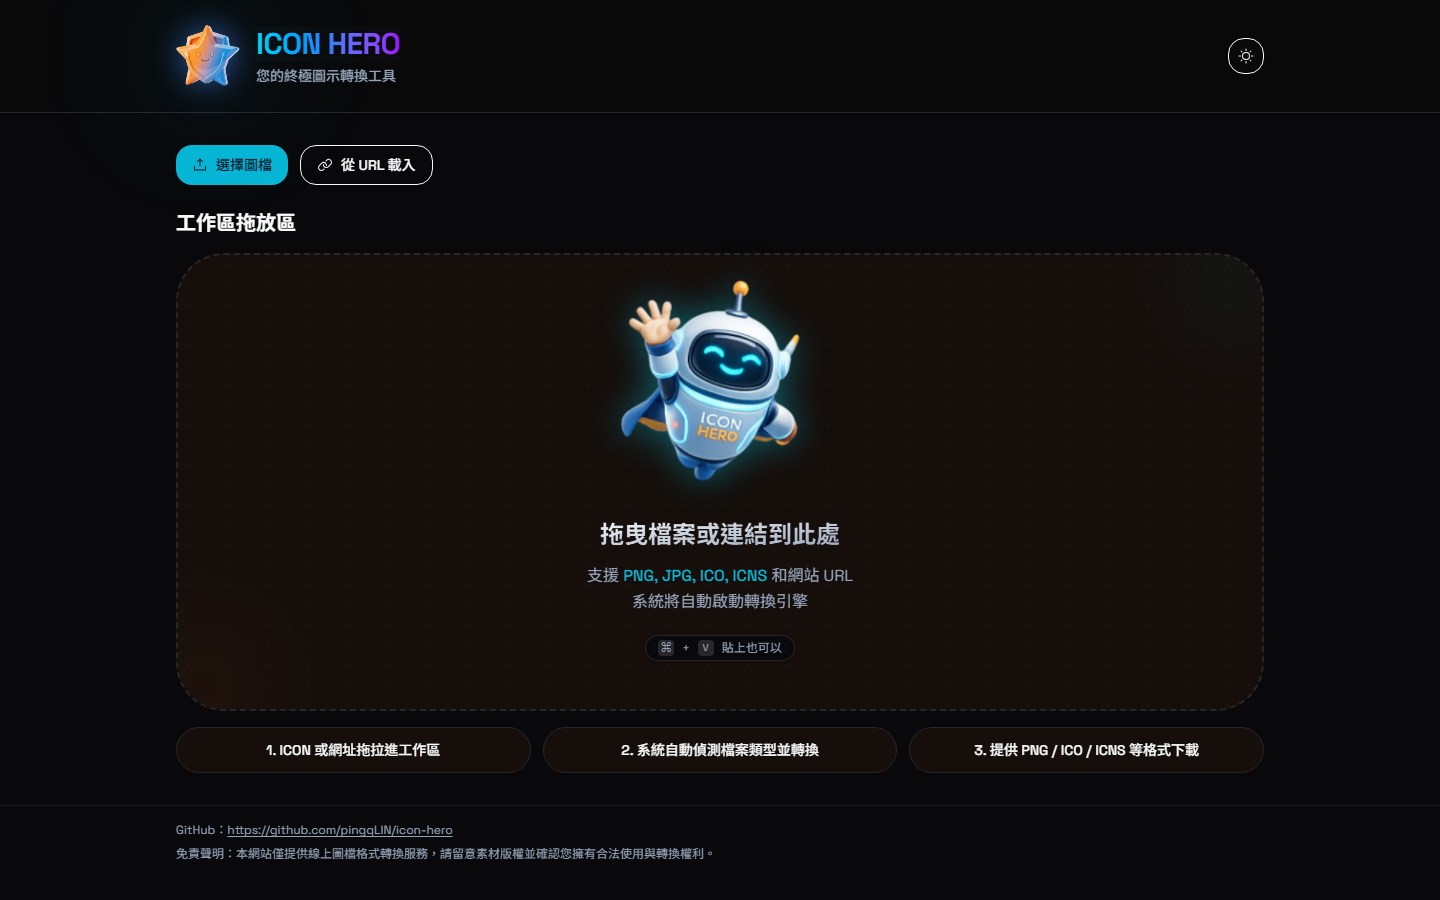
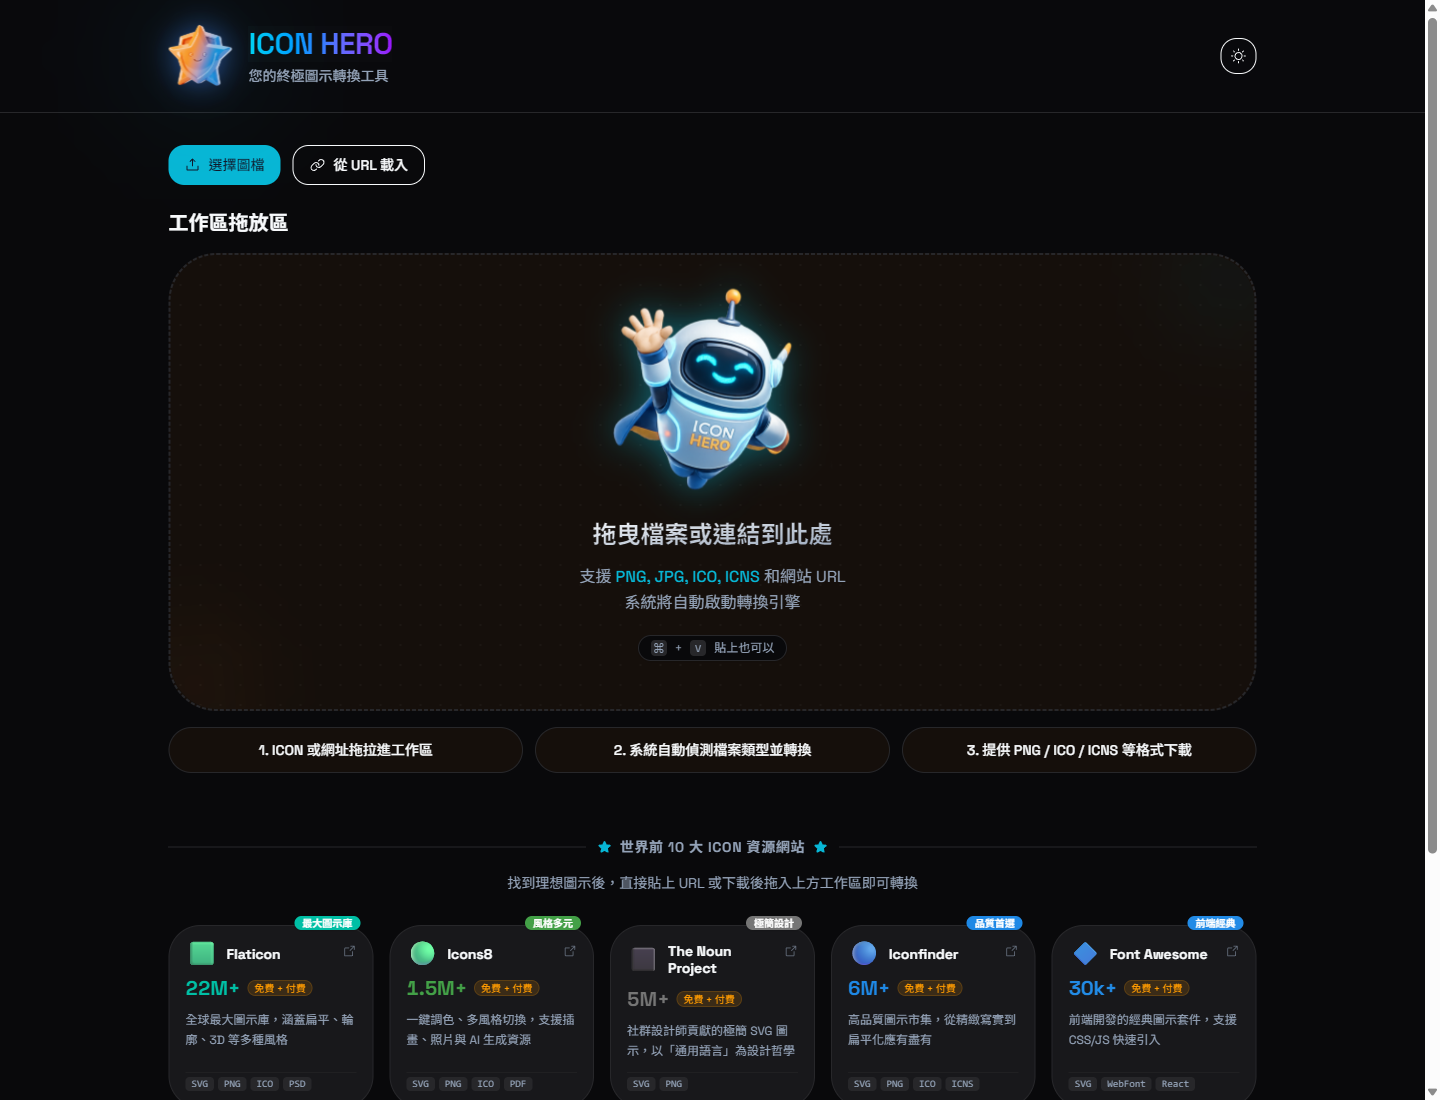
perf(build): split vendor chunks and refresh README visuals

diff --git a/vite.config.ts b/vite.config.ts
@@ -23,4 +23,41 @@ export default defineConfig({
       '@': resolve(projectRoot, 'src')
     }
   },
+  build: {
+    rollupOptions: {
+      output: {
+        manualChunks(id) {
+          if (!id.includes('node_modules')) {
+            return undefined
+          }
+
+          if (id.includes('react') || id.includes('scheduler')) {
+            return 'vendor-react'
+          }
+
+          if (id.includes('@radix-ui') || id.includes('cmdk') || id.includes('vaul') || id.includes('embla-carousel')) {
+            return 'vendor-ui'
+          }
+
+          if (id.includes('@phosphor-icons') || id.includes('lucide-react') || id.includes('@heroicons')) {
+            return 'vendor-icons'
+          }
+
+          if (id.includes('framer-motion')) {
+            return 'vendor-motion'
+          }
+
+          if (id.includes('jszip') || id.includes('marked')) {
+            return 'vendor-utils'
+          }
+
+          if (id.includes('@github/spark')) {
+            return 'vendor-spark'
+          }
+
+          return 'vendor-misc'
+        },
+      },
+    },
+  },
 });

diff --git a/README.md b/README.md
@@ -73,6 +73,29 @@
 
 ---
 
+## 🌍 Top 10 Icon Resources
+
+<p align="center">
+  <img src="docs/images/screenshot-icon-resources.png" width="900" alt="Top 10 icon resource cards in Icon Hero">
+</p>
+
+The workspace now includes a curated "Top 10 Icon Resources" section (right above the footer) for quick discovery and style comparison.
+
+| Website | Icon Count | License | Highlight |
+|---------|------------|---------|-----------|
+| Flaticon | 22M+ | Free + Paid | Largest icon library |
+| Icons8 | 1.5M+ | Free + Paid | Wide style coverage |
+| The Noun Project | 5M+ | Free + Paid | Minimal design system |
+| Iconfinder | 6M+ | Free + Paid | Premium-quality sets |
+| Font Awesome | 30k+ | Free + Paid | Frontend classic |
+| Phosphor Icons | 9k+ | Free | Used by this project |
+| Heroicons | 300+ | Free | Official Tailwind icons |
+| Lucide | 1.5k+ | Free | Active open-source community |
+| Feather Icons | 287 | Free | Minimal open-source set |
+| Material Icons | 2500+ | Free | Official Google set |
+
+---
+
 ## 🗺 How to Use
 
 <p align="center">

diff --git a/README.zh-TW.md b/README.zh-TW.md
@@ -73,6 +73,29 @@
 
 ---
 
+## 🌍 全球 Top 10 Icon 資源
+
+<p align="center">
+  <img src="docs/images/screenshot-icon-resources.png" width="900" alt="ICON HERO 內建 Top 10 Icon 資源卡片">
+</p>
+
+在工作區下方（footer 上方）新增了「全球 Top 10 Icon 資源」區塊，方便直接比較網站風格、授權與圖示量級。
+
+| 網站 | 圖示數 | 授權 | 特色 |
+|------|--------|------|------|
+| Flaticon | 22M+ | 免費 + 付費 | 最大圖示庫 |
+| Icons8 | 1.5M+ | 免費 + 付費 | 風格多元 |
+| The Noun Project | 5M+ | 免費 + 付費 | 極簡設計 |
+| Iconfinder | 6M+ | 免費 + 付費 | 品質首選 |
+| Font Awesome | 30k+ | 免費 + 付費 | 前端經典 |
+| Phosphor Icons | 9k+ | 免費 | 本站採用 |
+| Heroicons | 300+ | 免費 | Tailwind 官方 |
+| Lucide | 1.5k+ | 免費 | 社群活躍 |
+| Feather Icons | 287 | 免費 | 極簡開源 |
+| Material Icons | 2500+ | 免費 | Google 官方 |
+
+---
+
 ## 🗺 操作步驟
 
 <p align="center">
